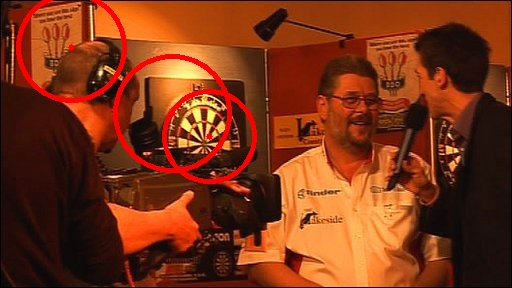
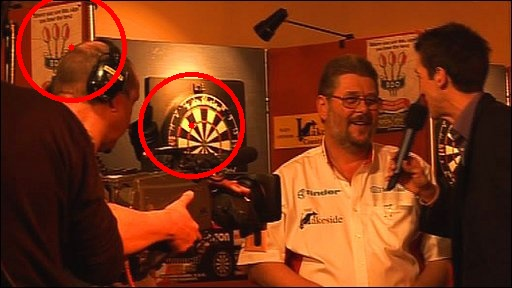
Deduplicates dartboard detections

Changed region(s): [[0.2188, 0.1875, 0.5312, 0.6562]]

diff --git a/Assignment/task3/task.cpp b/Assignment/task3/task.cpp
@@ -9,6 +9,7 @@
 #include "opencv2/imgproc/imgproc.hpp"
 #include <string>
 #include <math.h>
+#include <cmath>
 #include <vector>
 
 using namespace cv;
@@ -20,21 +21,23 @@ using namespace std;
 CascadeClassifier cascade;
 
 struct DartBoard {
-    Point center;
+    Point2f center;
     int radius;
 };
 
 struct CircleDetection {
-    Point center;
+    Point2f center;
     int radius;
 };
 
 class Detector {
-    Mat mag, grey;
-    vector<Point> line_hits;
-    vector<CircleDetection> circle_hits;
-    vector<Rect> viola_hits;
-    vector<DartBoard> dartboards;
+    private:
+        Mat mag, grey;
+        vector<Point2f> line_hits;
+        vector<CircleDetection> circle_hits;
+        vector<Rect> viola_hits;
+        vector<DartBoard> dartboards;
+        void deduplicate_hits();
     public:
         Mat image, overlay_image, detections_image;
         int read_image (char*);
@@ -216,7 +219,7 @@ void Detector::houghTransformLine() {
     for( size_t i = 0; i < lines.size(); i++ ) {
         for( size_t j = i+1; j < lines.size(); j++ ) {
             float rho = lines[i][0], theta = lines[i][1];
-            Point o1, p1;
+            Point2f o1, p1;
             double a = cos(theta), b = sin(theta);
             double x0 = a*rho, y0 = b*rho;
 
@@ -227,7 +230,7 @@ void Detector::houghTransformLine() {
 
             rho = lines[j][0];
             theta = lines[j][1];
-            Point o2, p2;
+            Point2f o2, p2;
             a = cos(theta), b = sin(theta);
             x0 = a*rho, y0 = b*rho;
             o2.x = cvRound(x0 + 1000*(-b));
@@ -252,7 +255,7 @@ void Detector::houghTransformLine() {
         for( int j = 0; j < mag.cols; j++ ) {
             // TODO: maybe change this to == 8 or some other
             if (crosses[i][j] > (sum / (5 * lines.size()))) {
-                Point center;
+                Point2f center;
                 center.x = i;
                 center.y = j;
                 circle( overlay_image, center, 7, Scalar(30,255,30), -1, 8, 0 );
@@ -283,7 +286,7 @@ void Detector::houghTransformCircle() {
     HoughCircles(blur_image, circles, CV_HOUGH_GRADIENT, 1, overlay_image.rows/16, 100, 35, 10, 120);
 
     for( size_t i = 0; i < circles.size(); i++ ) {
-        Point center(cvRound(circles[i][0]), cvRound(circles[i][1]));
+        Point2f center(cvRound(circles[i][0]), cvRound(circles[i][1]));
         int radius = cvRound(circles[i][2]);
         circle( overlay_image, center, 3, Scalar(0,0,255), -1, 8, 0 );
         circle( overlay_image, center, radius, Scalar(0,0,255), 3, 8, 0 );
@@ -299,7 +302,7 @@ void Detector::violaJones() {
     cascade.detectMultiScale(grey, viola_hits, 1.1, 1, 0|CV_HAAR_SCALE_IMAGE, Size(50, 50), Size(500,500) );
 
     for( int i = 0; i < viola_hits.size(); i++ ) {
-        rectangle(overlay_image, Point(viola_hits[i].x, viola_hits[i].y), Point(viola_hits[i].x + viola_hits[i].width, viola_hits[i].y + viola_hits[i].height), Scalar( 255, 0, 0 ), 2);
+        rectangle(overlay_image, Point2f(viola_hits[i].x, viola_hits[i].y), Point2f(viola_hits[i].x + viola_hits[i].width, viola_hits[i].y + viola_hits[i].height), Scalar( 255, 0, 0 ), 2);
     }
 
     return;
@@ -307,11 +310,13 @@ void Detector::violaJones() {
 
 void Detector::combineDectections() {
     vector<Rect>::iterator viola;
+    vector<Point2f>::iterator line_hit;
+    vector<CircleDetection>::iterator circle_hit;
+
     for (viola = viola_hits.begin(); viola!= viola_hits.end(); ++viola) {
-        vector<Point> line_score;
+        vector<Point2f> line_score;
         vector<CircleDetection> circle_score;
 
-        vector<Point>::iterator line_hit;
         for (line_hit = line_hits.begin(); line_hit != line_hits.end(); ++line_hit) {
 
             if (line_hit->x >= viola->x && line_hit->y >= viola->y && line_hit->x <= (viola->x + viola->width) && line_hit->y <= (viola->y + viola->height)) {
@@ -320,7 +325,6 @@ void Detector::combineDectections() {
 
         }
 
-        vector<CircleDetection>::iterator circle_hit;
         for (circle_hit = circle_hits.begin(); circle_hit != circle_hits.end(); ++circle_hit) {
 
             if (circle_hit->center.x >= viola->x && circle_hit->center.y >= viola->y && circle_hit->center.x <= (viola->x + viola->width) && circle_hit->center.y <= (viola->y + viola->height)) {
@@ -351,14 +355,86 @@ void Detector::combineDectections() {
         radius = (viola->width + viola->height + radius) / (2 + circle_score.size());
 
         DartBoard dartboard;
-        dartboard.center = {int(avx), int(avy)};
+        dartboard.center = {avx, avy};
         dartboard.radius = radius;
         dartboards.push_back(dartboard);
     }
 
+    deduplicate_hits();
+
     return;
 }
 
+void Detector::deduplicate_hits() {
+    //Deep copy dartboards
+    //Loop till clone is empty
+        //Loop through clone, find largest, remove.
+        //Loop through clone, find all that are smaller, remove and average them -> add to new set
+
+    //struct DartBoard {
+    //    Point center;
+    //    int radius;
+    //};
+
+    vector<DartBoard>dartboards_clone = dartboards;
+    vector<DartBoard>deduplicated_hits;
+    DartBoard dartboard;
+    DartBoard largest;
+
+    while (dartboards_clone.size() > 0) {
+        //int index = 0;
+        float distance;
+        float avx, avy, avradius;
+        int sum_duplicates = 1;
+
+        largest = dartboards_clone.back();
+        avx = largest.center.x;
+        avy = largest.center.y;
+        avradius = largest.radius;
+        dartboards_clone.erase(dartboards_clone.end() -1);
+
+        //for (dartboard = dartboards_clone.begin(); dartboard != dartboards_clone.end(); ++dartboard) {
+        for(unsigned index = dartboards_clone.size(); index-- > 0;) {
+
+            dartboard = dartboards_clone.at(index);
+
+            distance = sqrt((pow((dartboard.center.x - largest.center.x), 2) + pow((dartboard.center.y - largest.center.y), 2)));
+
+            //if dis < dartboard radius, dartboard larger, av, remove
+            if (distance < dartboard.radius) {
+                sum_duplicates++;
+                avx += dartboard.center.x;
+                avy += dartboard.center.y;
+                avradius += dartboard.radius;
+
+                largest = dartboard;
+                dartboards_clone.erase(dartboards_clone.begin() + index);
+                continue;
+            }
+
+            //if dis < largest radius, largest larger, av  remove
+            if (distance <= largest.radius) {
+                sum_duplicates++;
+                avx += largest.center.x;
+                avy += largest.center.y;
+                avradius += largest.radius;
+
+                dartboards_clone.erase(dartboards_clone.begin() + index);
+                continue;
+            }
+        }
+
+        dartboard.radius = avradius / sum_duplicates;
+        dartboard.center.x = avx / sum_duplicates;
+        dartboard.center.y = avy / sum_duplicates;
+        deduplicated_hits.push_back(dartboard);
+    }
+
+    dartboards = deduplicated_hits;
+
+
+    return;
+}
 
 int Detector::read_image (char* path) {
     image = imread(path, CV_LOAD_IMAGE_COLOR);
